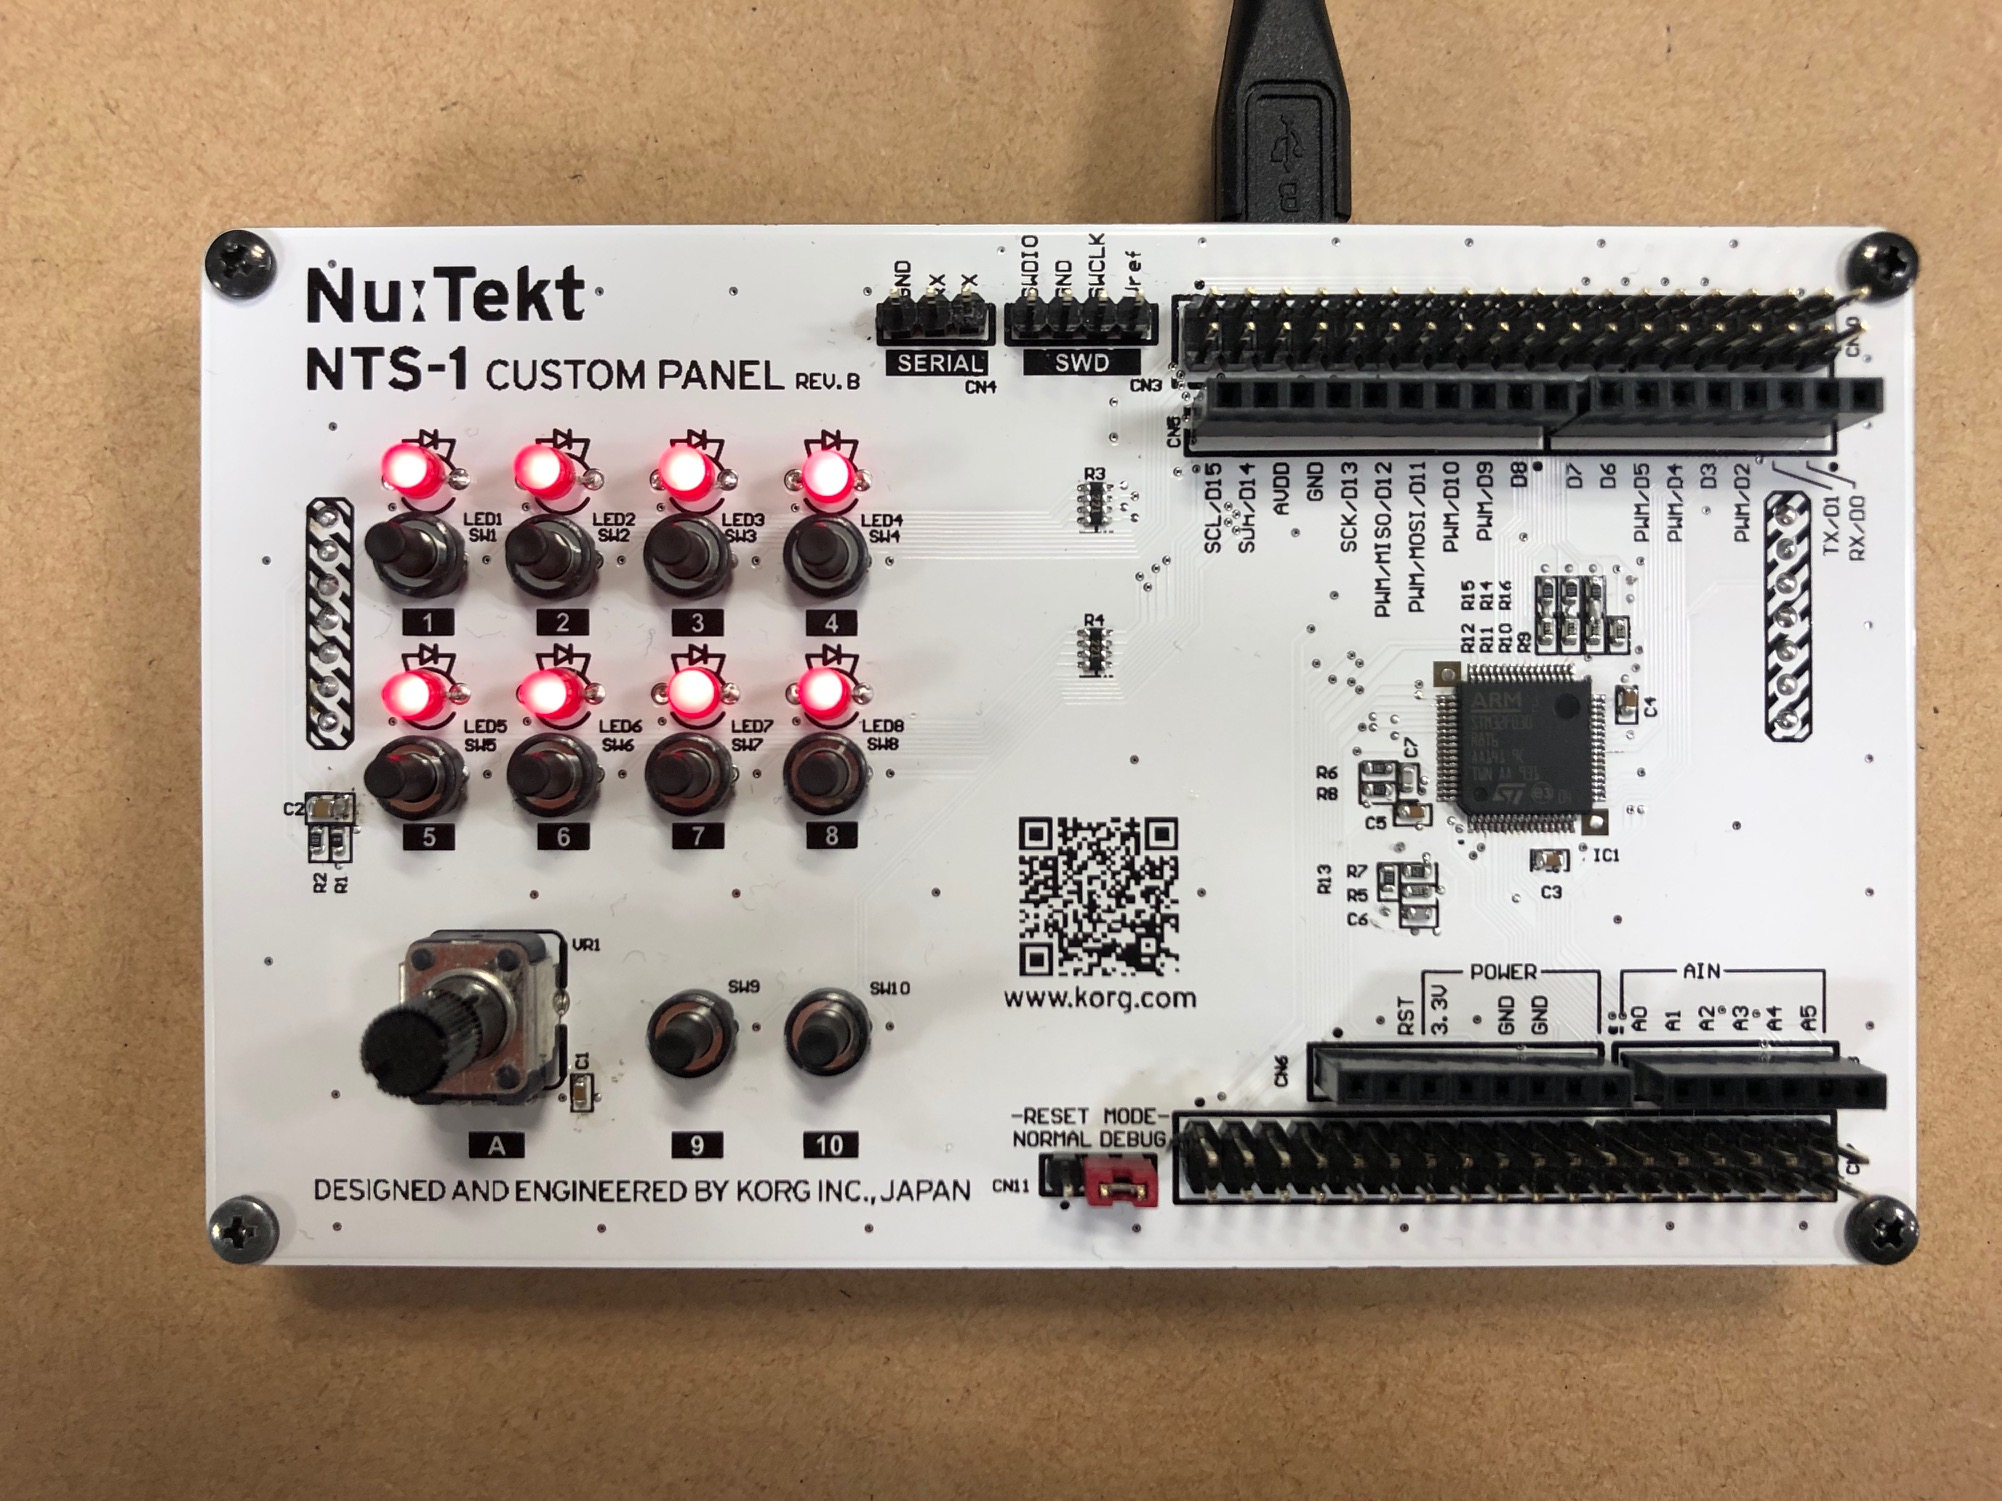
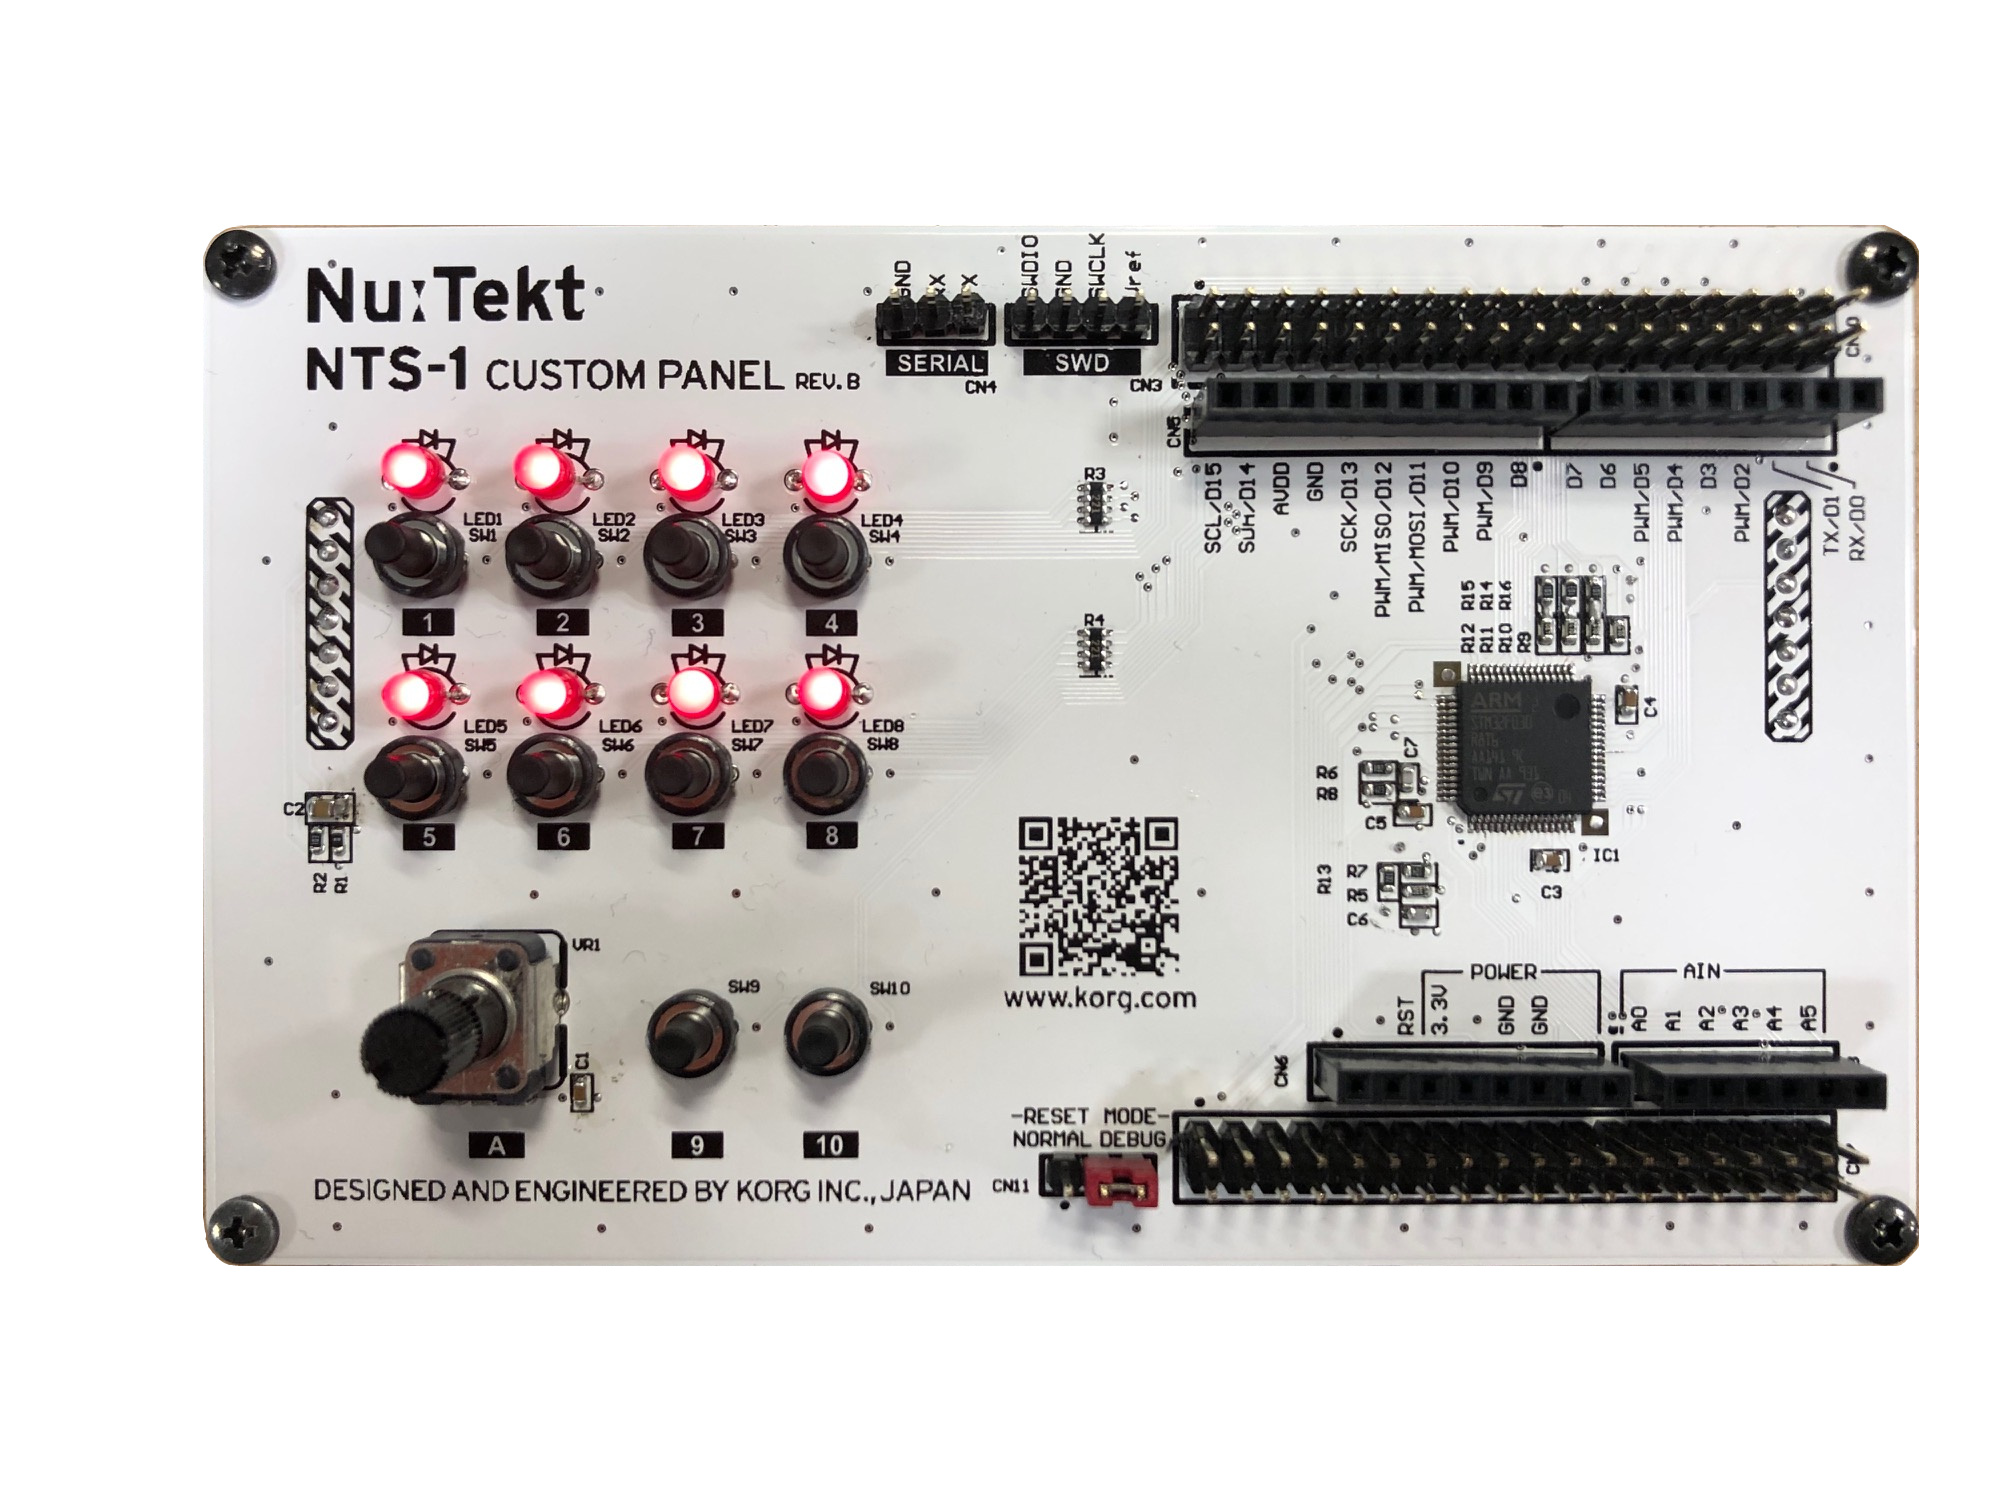
Improve reference board index image. Add images for demo custom panels.

diff --git a/doc/03_examples.md b/doc/03_examples.md
@@ -47,9 +47,17 @@ This template demonstrates how to use the NTS1 Class to trigger note on/off even
 
 ## Demo Boards
 
+To illustrate the possibilities of NTS-1 custom panels we built the following demos.
+
+### User Oscillator Editor
+
+![User Oscillator Editor](../assets/NTS-1_cp_user_osc_editor.jpg)
+
 ### Circular Sequencer
+
+![Circular Sequencer](../assets/NTS-1_cp_circular_seq.jpg)
 
 ### Effect Pedal
 
-### User Oscillator Editor
+![Effect Pedal](../assets/NTS-1_cp_effect_pedal.jpg)
 

diff --git a/doc/03_examples_ja.md b/doc/03_examples_ja.md
@@ -49,8 +49,16 @@ This template demonstrates how to use the NTS1 Class to trigger note on/off even
 
 ## Demo Boards
 
+To illustrate the possibilities of NTS-1 custom panels we built the following demos.
+
+### User Oscillator Editor
+
+![User Oscillator Editor](../assets/NTS-1_cp_user_osc_editor.jpg)
+
 ### Circular Sequencer
+
+![Circular Sequencer](../assets/NTS-1_cp_circular_seq.jpg)
 
 ### Effect Pedal
 
-### User Oscillator Editor
+![Effect Pedal](../assets/NTS-1_cp_effect_pedal.jpg)
